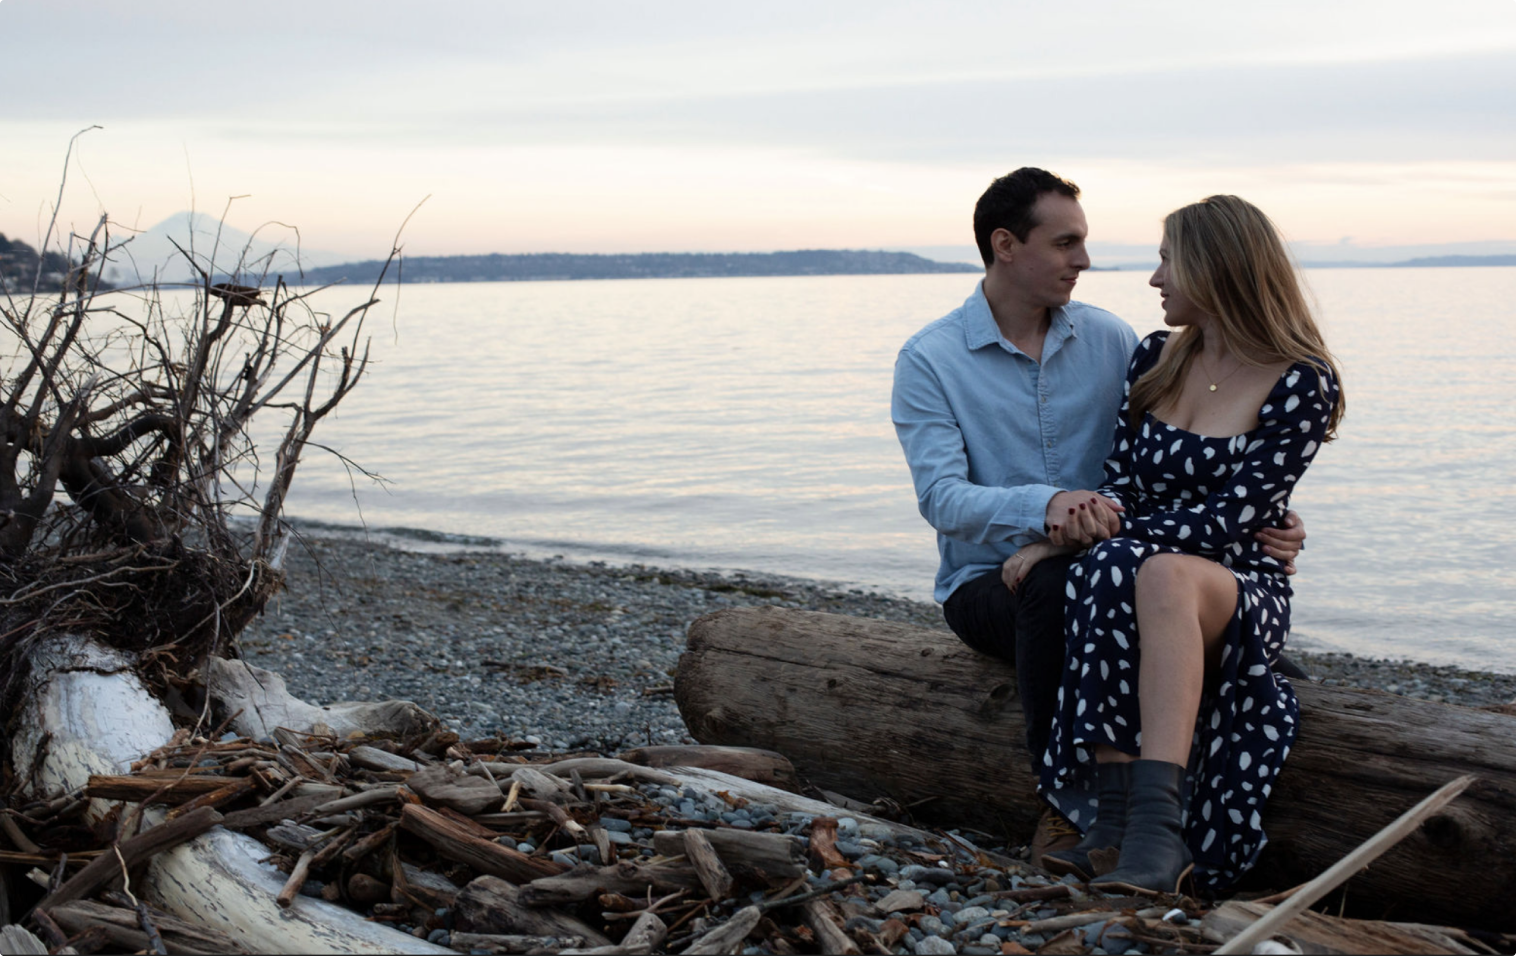
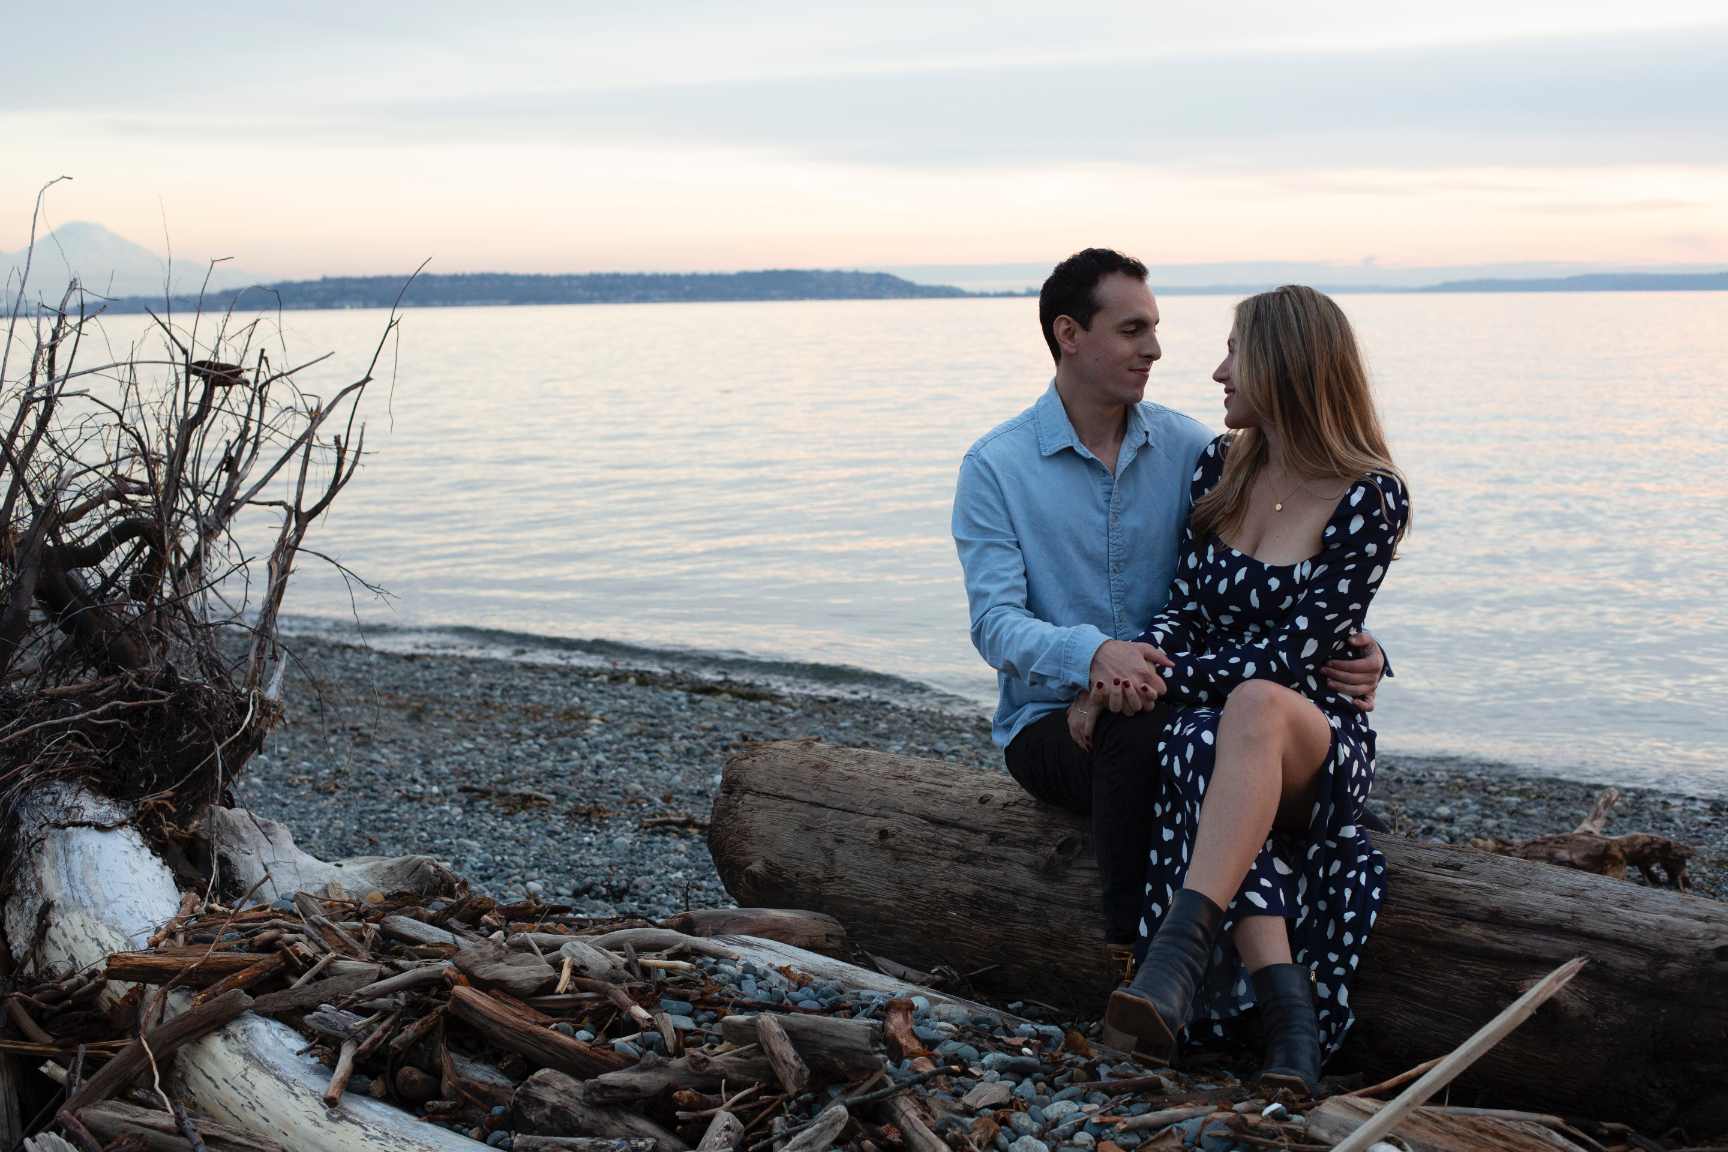
image sizing

diff --git a/pages/getting-there.js b/pages/getting-there.js
@@ -3,6 +3,9 @@ import Image from "next/image";
 import styles from "../styles/SecondaryPage.module.scss";
 import classNames from "classnames/bind";
 import heroImage from "../public/images/hero-image.png";
+import image1 from "../public/images/Landscape-666.png";
+import image2 from "../public/images/Landscape-drinks.png";
+import image3 from "../public/images/Portrait-gaze.png";
 import ChevronRightIcon from "@material-ui/icons/ChevronRight";
 import Navigation from "../components/Navigation/Navigation";
 import Footer from "../components/Footer/Footer";
@@ -29,31 +32,34 @@ export default function Home() {
         <div className={cx("hero__image__container", "hero__image--1")}>
           <Image
             className={styles.hero__image}
-            src={heroImage}
+            src={image1}
             alt="Nico and Nadejda"
-            layout="fill"
+            width={1152}
+            height={730}
           />
         </div>
         <div className={cx("hero__image__container", "hero__image--2")}>
           <Image
             className={styles.hero__image}
-            src={heroImage}
+            src={image2}
             alt="Nico and Nadejda"
-            layout="fill"
+            width={1728}
+            height={1152}
           />
         </div>
         <div className={cx("hero__image__container", "hero__image--3")}>
           <Image
             className={styles.hero__image}
-            src={heroImage}
+            src={image3}
             alt="Nico and Nadejda"
-            layout="fill"
+            width={1152}
+            height={1728}
           />
         </div>
       </div>
       <section className={styles.header__container}>
         <div className={styles.header__primary}>
-          <p>The wedding will be at the chateau de Montmélian</p>
+          <p>The wedding will be at Nadejda&apos;s family home</p>
           <p>in Samoreau, France</p>
         </div>
         <div className={styles.header__secondary}>
@@ -110,10 +116,11 @@ export default function Home() {
         </div>
         <div className={styles.subsection}>
           <p className={styles.subsection__content}>
-            A note about vaccine status and wedding participation: We’re asking
-            that only vaccinated folks participate in the wedding festivities as
-            we want to minimize the risk of infection. Please reach out to the
-            bride and groom if you have any questions or concerns.
+            A note about vaccine status and wedding participation: We&apos;re
+            asking that only vaccinated folks participate in the wedding
+            festivities as we want to minimize the risk of infection. Please
+            reach out to the bride and groom if you have any questions or
+            concerns.
           </p>
           <small className={styles.subsection__content}>
             *Rules for Children Testing, vaccination and booster requirements
@@ -149,6 +156,11 @@ export default function Home() {
             nor have had contact with any confirmed cases of COVID-19.
           </p>
         </div>
+      </section>
+      <section>
+        <div className={styles.subheader__container}>
+          <h2 className={styles.subheader}>Carte Sanitaire (Health Pass)</h2>
+        </div>
         <div className={styles.subsection}>
           <p className={styles.subsection__content}>
             We strongly recommend securing your pass sanitaire (health pass)
@@ -177,6 +189,79 @@ export default function Home() {
             certificate into the French system and provide you with a QR code
             that can be scanned at venues where the health pass is required.
           </p>
+        </div>
+      </section>
+      <section>
+        <div className={styles.subheader__container}>
+          <h2 className={styles.subheader}>Your options for stay</h2>
+        </div>
+        <div className={styles.content__secondary}>
+          <div className={styles.list__container}>
+            <div className={styles.subheader__container}>
+              <h3 className={styles.subheader}>Hotels</h3>
+            </div>
+            <div className={styles.subsection}>
+              <p className={styles.subsection__content}>
+                <ul>
+                  <li>
+                    L&apos;Anneau de Mallarmé, Vulaines - call for reservation
+                    +33 1 64 23 71 61
+                  </li>
+                  <li>
+                    Le Country Club, Samois - call for reservation +33 1 64 24
+                    60 34
+                  </li>
+                  <li>Ibis Budget Fontainebleau-Avon</li>
+                  <li>Wisteria, Maison d&apos;hôtes Fontainebleau</li>
+                  <li>La Demeure du Parc, Boutique hotel, Fontainebleau</li>
+                  <li>Hotel Belle Fontainebleau</li>
+                  <li>Hotel Aigle Noir Fontainebleau</li>
+                  <li>Ibis Chateau de Fontainebleau</li>
+                  <li>Hotel Le Richelieu Fontainebleau</li>
+                  <li>Hotel de Londres Fontainebleau</li>
+                  <li>La Carpe d&apos;Or Fontainebleau</li>
+                  <li>Hotel Victoria Fontainebleau</li>
+                  <li>
+                    Hotel Mercure Chateau de Fontainebleau Demeure de Campagne
+                  </li>
+                </ul>
+              </p>
+            </div>
+
+            <div className={styles.subheader__container}>
+              <h3 className={styles.subheader}>
+                A selection of the nearest Airbnbs
+              </h3>
+            </div>
+            <div className={styles.subsection}>
+              <p className={styles.subsection__content}>
+                <ul>
+                  <li>Samois, Studio de charme en bord de Seine</li>
+                  <li>La chambre dans la maison du sourire à Samois</li>
+                  <li>Cottage la Bacotte, Bois-Le-Roi</li>
+                  <li>Les Bulles d&apos;Iris, Vulaines-sur-Seine</li>
+                  <li>Le Vieux Moulin de Valvins, Avon</li>
+                  <li>Maisonnette de Charme, Hericy</li>
+                  <li>Chambre privée Joséphine, Villa La Fougeraie, Avon</li>
+                  <li>Aux voyageurs d&apos;un temps, Saint Mamme</li>
+                  <li>Mon cocon au bord de l&apos;eau à Moret sur loing</li>
+                </ul>
+              </p>
+            </div>
+
+            <div className={styles.subheader__container}>
+              <h3 className={styles.subheader}>Atypical Lodging</h3>
+            </div>
+            <div className={styles.subsection}>
+              <p className={styles.subsection__content}>
+                <ul>
+                  <li>Domaine de Graville Tree Huts</li>
+                  <li>Chambres d&apos;hotes Peniche Eden Samois sur seine</li>
+                  <li>Les Bulles d&apos;Iris, Vulaines-sur-Seine</li>
+                </ul>
+              </p>
+            </div>
+          </div>
         </div>
       </section>
       <Footer />

diff --git a/pages/index.js b/pages/index.js
@@ -36,7 +36,8 @@ export default function Home() {
             className={styles.hero__image}
             src={heroImage}
             alt="Nico and Nadejda"
-            layout="fill"
+            width={1728}
+            height={1152}
           />
         </div>
       </div>
@@ -169,7 +170,7 @@ export default function Home() {
             <div>
               <p>
                 We&apos;ll start with a ceremony on the estate grounds, then
-                move to the chateau for food, live music and dancing. The dress
+                move to the château for food, live music and dancing. The dress
                 code is black tie optional.
               </p>
               <p>Please RSVP by May 31st.</p>

diff --git a/styles/Home.module.scss b/styles/Home.module.scss
@@ -42,6 +42,8 @@
       grid-row: span 8 / -1;
       height: 34vw;
       max-height: 100%;
+      display: flex;
+      justify-content: flex-end;
       @media (max-width: var.$breakpoint--medium) {
         grid-column: 1/-1;
         grid-row: 2 / span 8;
@@ -171,7 +173,7 @@
     border-top-right-radius: 6px;
   }
   &__image {
-    border-radius: 6px;
+    border-radius: 4px;
   }
 }
 

diff --git a/styles/SecondaryPage.module.scss b/styles/SecondaryPage.module.scss
@@ -45,7 +45,7 @@
     &--1,
     &--2,
     &--3 {
-      opacity: 0.7;
+      opacity: 0.75;
       &:hover {
         z-index: 5;
         opacity: 1;
@@ -73,7 +73,7 @@
     }
     &--2 {
       grid-column: 3 / 7;
-      grid-row: span 4 / -1;
+      grid-row: 4/-1;
       z-index: 2;
     }
     &--3 {
